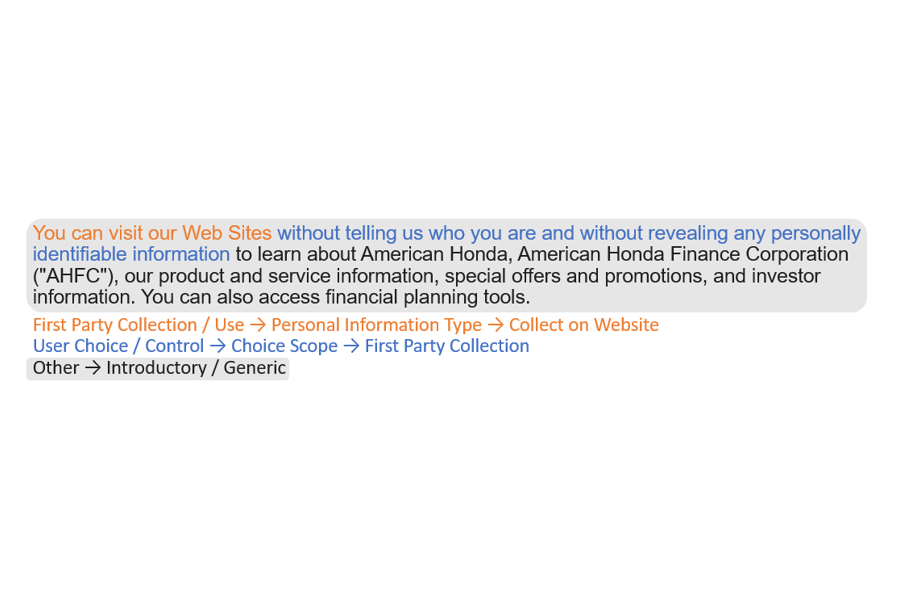
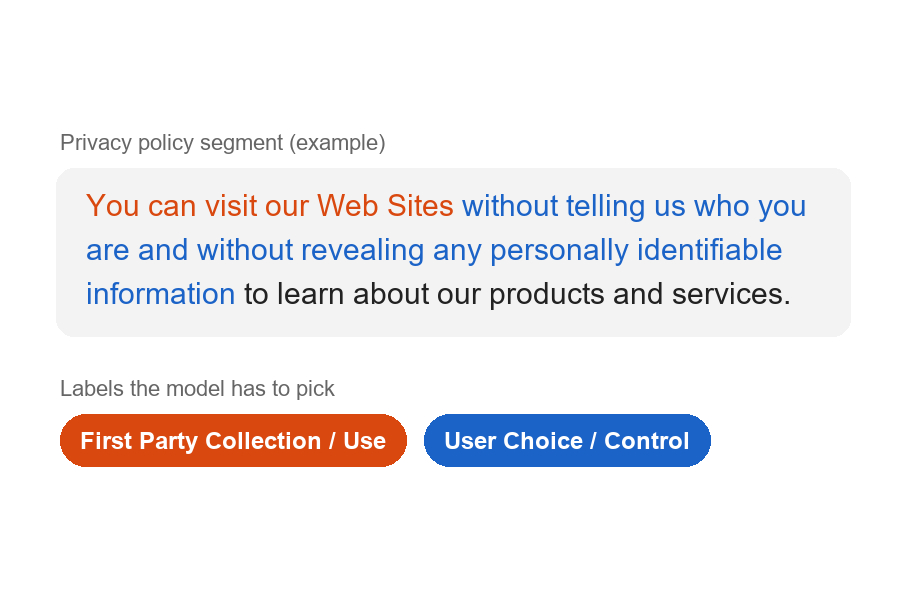
Site: clearer SleeperDiff and RAG card images

Changed region(s): [[0.0311, 0.3, 0.9644, 0.66], [0.0622, 0.69, 0.8089, 0.78], [0.0622, 0.21, 0.4356, 0.27]]

diff --git a/index.md b/index.md
@@ -5,7 +5,7 @@ permalink: /
 author_profile: true
 feature_row:
   - image_path: /assets/images/p1-card.png
-    alt: "Original and transformed images from the attack"
+    alt: "Attacked images shown original, lightly blurred and heavily blurred"
     title: "SleeperDiff"
     excerpt: "Images that fool a classifier only after they get blurred. It worked 72% of the time under blur and almost never under scaling. Team of three. [Code](https://github.com/gavingleinig/semantic-transformation-adv-attack)"
     url: /assets/reports/p1-sleeperdiff.pdf
